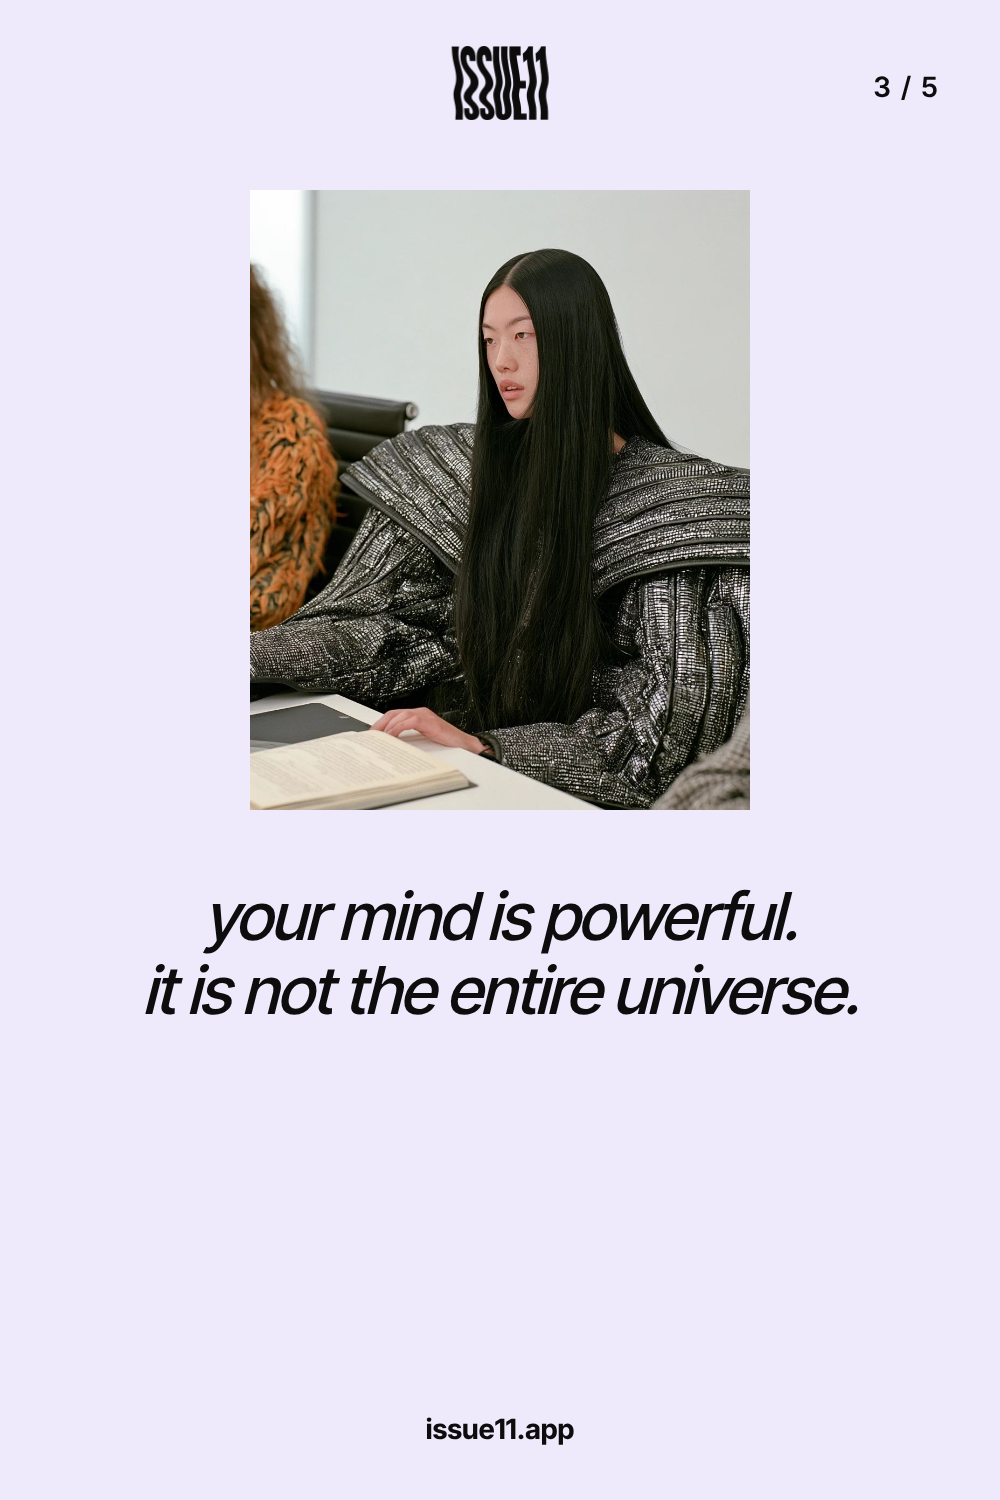
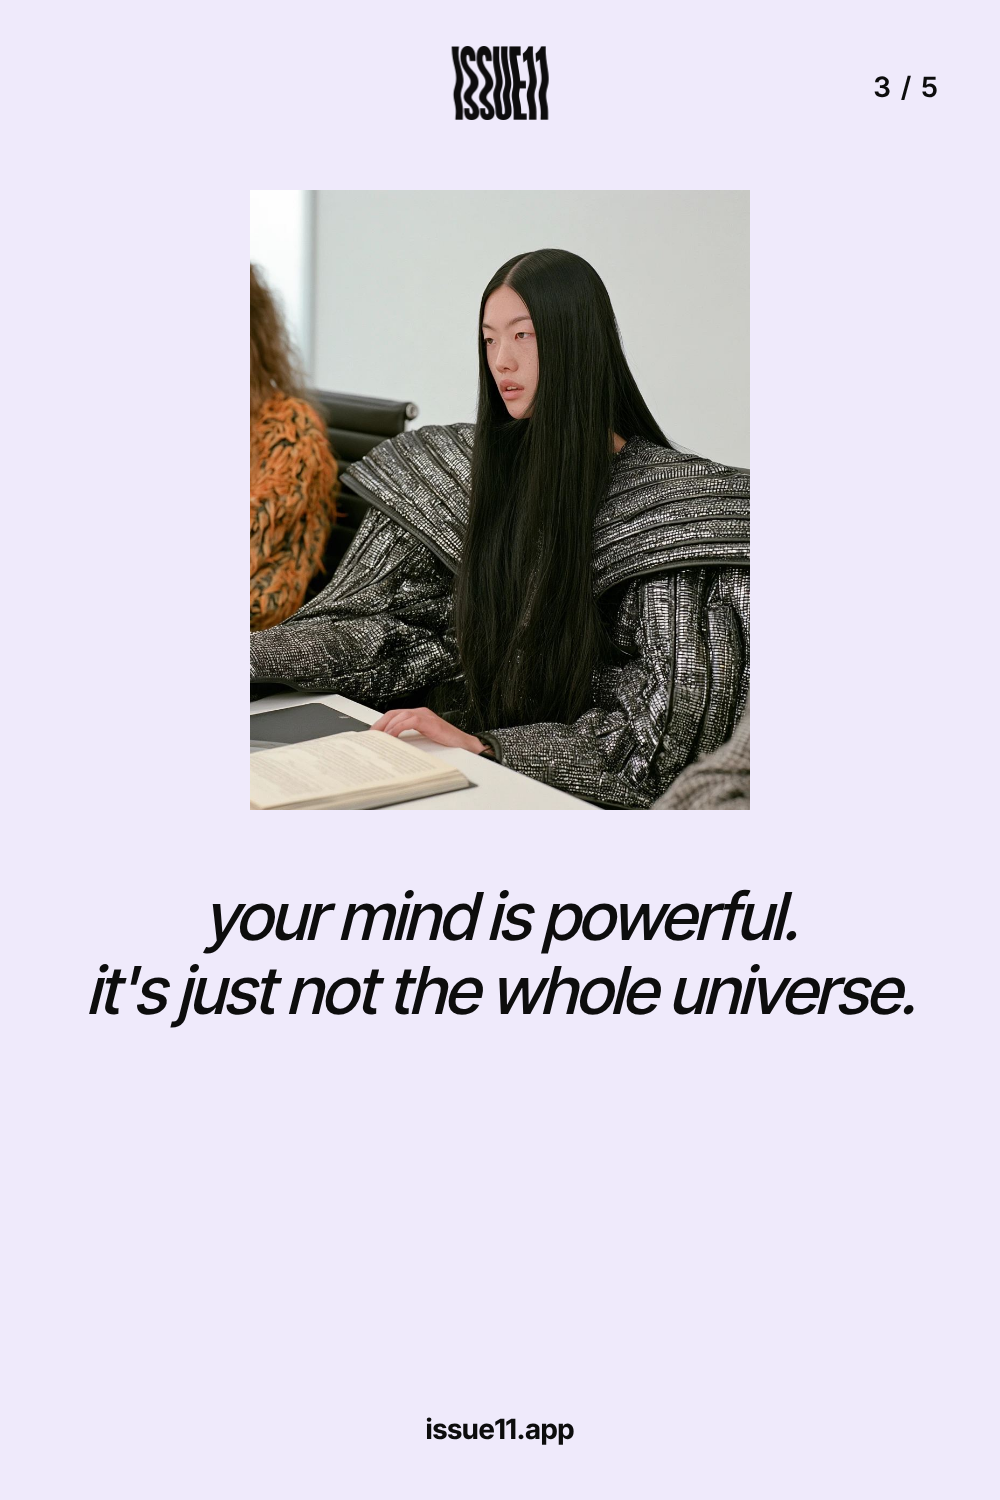
Rule: humanize everything; pillar 4 carousel copy humanized
Claude-Session: https://claude.ai/code/session_01YGtmQppBCBt9nypMHzxSp1

Changed region(s): [[0.093, 0.644, 0.93, 0.7053]]

diff --git a/drafts/pinterest/carousels/pillar4/p4.js b/drafts/pinterest/carousels/pillar4/p4.js
@@ -31,21 +31,21 @@ S.push(shell(2, `<div class="mid" style="top:520px;font-size:76px">they told you
 // 3 · the turn (registry line) + framed photo
 S.push(shell(3, `<div style="position:absolute;inset:0;background:#EFEAFB"></div>
 <img src="${PHOTO}" style="position:absolute;left:250px;top:190px;width:500px;height:620px;object-fit:cover;object-position:50% 20%">
-<div class="mid" style="top:880px;font-size:66px;font-style:italic">your mind is powerful.<br>it is not the entire universe.</div>`));
+<div class="mid" style="top:880px;font-size:66px;font-style:italic">your mind is powerful.<br>it's just not the whole universe.</div>`));
 // 4 · conceptual model: the month you pictured vs the month you had
-S.push(shell(4, `<div class="lab" style="top:230px">conceptual model</div>
+S.push(shell(4, `<div class="lab" style="top:230px">not real data. just real life.</div>
 <svg style="position:absolute;left:100px;top:330px" width="800" height="620" viewBox="0 0 800 620">
 <line x1="40" y1="580" x2="780" y2="580" stroke="#0D0D0D" stroke-width="3"/>
 <line x1="40" y1="580" x2="40" y2="20" stroke="#0D0D0D" stroke-width="3"/>
 <path d="M40 560 L760 60" stroke="#BDBDBD" stroke-width="10" fill="none" stroke-dasharray="22 16" stroke-linecap="round"/>
 <path d="M40 560 C150 430 210 420 280 420 S390 440 440 470 S540 330 600 260 S700 170 760 150" stroke="${PINK}" stroke-width="12" fill="none" stroke-linecap="round"/>
 </svg>
-<div style="position:absolute;left:110px;top:1010px;font-weight:700;font-size:38px;color:#9A9A9A">- - the month you pictured</div>
-<div style="position:absolute;left:110px;top:1070px;font-weight:700;font-size:38px;color:${PINK}">— the month you had</div>
-<div class="mid" style="top:1180px;font-size:44px;font-weight:600">both still go up.</div>`));
+<div style="position:absolute;left:110px;top:1010px;font-weight:700;font-size:38px;color:#9A9A9A">- - what you pictured</div>
+<div style="position:absolute;left:110px;top:1070px;font-weight:700;font-size:38px;color:${PINK}">— what actually happened</div>
+<div class="mid" style="top:1180px;font-size:44px;font-weight:600">still going up though.</div>`));
 // 5 · the decision + next step
-S.push(shell(5, `<div class="big" style="top:250px;font-size:118px">a setback is not a verdict.</div>
-<div style="position:absolute;left:60px;right:60px;top:640px;font-weight:700;font-size:56px;line-height:1.35">keep going.<br>adjust.<br>pause.<br>stop.<br><span style="color:${PINK}">your call.</span></div>
+S.push(shell(5, `<div class="big" style="top:250px;font-size:112px">one slow month doesn't mean it's over.</div>
+<div style="position:absolute;left:60px;right:60px;top:700px;font-weight:700;font-size:56px;line-height:1.35">keep going.<br>change the plan.<br>take a break.<br>or let it go.<br><span style="color:${PINK}">your call.</span></div>
 <div style="position:absolute;left:60px;right:60px;top:1150px;font-weight:600;font-size:38px">save this for month two.</div>`));
 (async () => {
   const b = await chromium.launch(); const p = await b.newPage({viewport: {width: 1000, height: 1500}});

diff --git a/drafts/pinterest/carousels/pillar4/P4-4.html b/drafts/pinterest/carousels/pillar4/P4-4.html
@@ -7,13 +7,13 @@
 .big{position:absolute;left:60px;right:60px;font-weight:900;letter-spacing:-.045em;line-height:.98}
 .mid{position:absolute;left:80px;right:80px;text-align:center;font-weight:500;letter-spacing:-.03em;line-height:1.12}
 .lab{position:absolute;left:0;right:0;text-align:center;font-weight:800;font-size:24px;letter-spacing:.2em;color:#E0217F;text-transform:uppercase}</style></head><body><div class="pin" style="">
-<img class="logo" src="file:///home/user/Autonomousangents/drafts/issue11-gift/rebrand-kit/logo-black.png"><div class="num">4 / 5</div><div class="lab" style="top:230px">conceptual model</div>
+<img class="logo" src="file:///home/user/Autonomousangents/drafts/issue11-gift/rebrand-kit/logo-black.png"><div class="num">4 / 5</div><div class="lab" style="top:230px">not real data. just real life.</div>
 <svg style="position:absolute;left:100px;top:330px" width="800" height="620" viewBox="0 0 800 620">
 <line x1="40" y1="580" x2="780" y2="580" stroke="#0D0D0D" stroke-width="3"/>
 <line x1="40" y1="580" x2="40" y2="20" stroke="#0D0D0D" stroke-width="3"/>
 <path d="M40 560 L760 60" stroke="#BDBDBD" stroke-width="10" fill="none" stroke-dasharray="22 16" stroke-linecap="round"/>
 <path d="M40 560 C150 430 210 420 280 420 S390 440 440 470 S540 330 600 260 S700 170 760 150" stroke="#E0217F" stroke-width="12" fill="none" stroke-linecap="round"/>
 </svg>
-<div style="position:absolute;left:110px;top:1010px;font-weight:700;font-size:38px;color:#9A9A9A">- - the month you pictured</div>
-<div style="position:absolute;left:110px;top:1070px;font-weight:700;font-size:38px;color:#E0217F">— the month you had</div>
-<div class="mid" style="top:1180px;font-size:44px;font-weight:600">both still go up.</div><div class="url">issue11.app</div></div></body></html>
+<div style="position:absolute;left:110px;top:1010px;font-weight:700;font-size:38px;color:#9A9A9A">- - what you pictured</div>
+<div style="position:absolute;left:110px;top:1070px;font-weight:700;font-size:38px;color:#E0217F">— what actually happened</div>
+<div class="mid" style="top:1180px;font-size:44px;font-weight:600">still going up though.</div><div class="url">issue11.app</div></div></body></html>

diff --git a/drafts/pinterest/carousels/pillar4/P4-5.html b/drafts/pinterest/carousels/pillar4/P4-5.html
@@ -7,6 +7,6 @@
 .big{position:absolute;left:60px;right:60px;font-weight:900;letter-spacing:-.045em;line-height:.98}
 .mid{position:absolute;left:80px;right:80px;text-align:center;font-weight:500;letter-spacing:-.03em;line-height:1.12}
 .lab{position:absolute;left:0;right:0;text-align:center;font-weight:800;font-size:24px;letter-spacing:.2em;color:#E0217F;text-transform:uppercase}</style></head><body><div class="pin" style="">
-<img class="logo" src="file:///home/user/Autonomousangents/drafts/issue11-gift/rebrand-kit/logo-black.png"><div class="num">5 / 5</div><div class="big" style="top:250px;font-size:118px">a setback is not a verdict.</div>
-<div style="position:absolute;left:60px;right:60px;top:640px;font-weight:700;font-size:56px;line-height:1.35">keep going.<br>adjust.<br>pause.<br>stop.<br><span style="color:#E0217F">your call.</span></div>
+<img class="logo" src="file:///home/user/Autonomousangents/drafts/issue11-gift/rebrand-kit/logo-black.png"><div class="num">5 / 5</div><div class="big" style="top:250px;font-size:112px">one slow month doesn't mean it's over.</div>
+<div style="position:absolute;left:60px;right:60px;top:700px;font-weight:700;font-size:56px;line-height:1.35">keep going.<br>change the plan.<br>take a break.<br>or let it go.<br><span style="color:#E0217F">your call.</span></div>
 <div style="position:absolute;left:60px;right:60px;top:1150px;font-weight:600;font-size:38px">save this for month two.</div><div class="url">issue11.app</div></div></body></html>

diff --git a/drafts/pinterest/carousels/pillar4/P4-3.html b/drafts/pinterest/carousels/pillar4/P4-3.html
@@ -9,4 +9,4 @@
 .lab{position:absolute;left:0;right:0;text-align:center;font-weight:800;font-size:24px;letter-spacing:.2em;color:#E0217F;text-transform:uppercase}</style></head><body><div class="pin" style="">
 <img class="logo" src="file:///home/user/Autonomousangents/drafts/issue11-gift/rebrand-kit/logo-black.png"><div class="num">3 / 5</div><div style="position:absolute;inset:0;background:#EFEAFB"></div>
 <img src="file:///home/user/Autonomousangents/drafts/issue11-gift/rebrand-kit/img/e27.jpg" style="position:absolute;left:250px;top:190px;width:500px;height:620px;object-fit:cover;object-position:50% 20%">
-<div class="mid" style="top:880px;font-size:66px;font-style:italic">your mind is powerful.<br>it is not the entire universe.</div><div class="url">issue11.app</div></div></body></html>
+<div class="mid" style="top:880px;font-size:66px;font-style:italic">your mind is powerful.<br>it's just not the whole universe.</div><div class="url">issue11.app</div></div></body></html>

diff --git a/.pipeline/lessons.md b/.pipeline/lessons.md
@@ -806,3 +806,4 @@ Format: `- YYYY-MM-DD · <agent> · <what> · why · cost`
 - 2026-11-26 · RULE (Megan: "Also it needs to match the lexicon of our audience"): pin copy uses her words from design/editorial/LEXICON.md (Gen Z vs millennial-30s split, pains, skeptic voice) and none of its never-say list. Summary in the issue11-pinterest skill.
 - 2026-11-26 · DECISION (Megan: "Perfect so now we are creating content from there"): design/editorial/POINT-OF-VIEW.md approved; the 7 beliefs are the content pillars (start 1 + 4), ACT → EVOLVE in content, belief 2 line OK. In the issue11-pinterest skill.
 - 2026-11-26 · DECISION (Megan: "We are allowed to copy viral content and change a few things (few words, or aesthetic of the content or adapt it ours, etc...)"): OK to take a viral post's idea, structure, topic and hook pattern and remake it as ours. Guardrail (Pinterest takedown risk): never reuse another creator's photos/graphics, and don't republish their full text with a few words swapped; rewrite in our words + lexicon, our photos, our POV.
+- 2026-11-26 · RULE (Megan, word for word: "Also HUMANIZE EVERYRHING"): every line must sound like a real girl talking, not a brand, a coach or AI. Contractions, casual words, her lexicon; no lofty or clinical lines ("verdict", "conceptual model", "embark"). Read it out loud: would she say it to a friend?

diff --git a/.claude/skills/issue11-pinterest/SKILL.md b/.claude/skills/issue11-pinterest/SKILL.md
@@ -71,6 +71,7 @@ Megan, Nov 26: "Also it needs to match the lexicon of our audience". Full source
 - Never "becoming her" (Megan: "becoming her should not be a thing"). Never copy Megan's personal details.
 - Audience: Gen Z **and** millennial women. Captions and on-pin text are lowercase (Megan: "No capital letters").
 - Copy: **concise, no fluff, no AI jargon** (Megan: "keep it concise no extra fluff words etc and ai jargon"). Cut every word that isn't doing work; never "elevate", "unlock", "journey", "game-changer", "dive in".
+- **HUMANIZE EVERYTHING** (Megan, in caps): every line sounds like a real girl talking to a friend, not a brand, coach or AI. Contractions, casual words, her lexicon; no lofty or clinical words ("verdict", "conceptual model", "embark", "elevate"). Test: read it out loud.
 - Keep it simple: **one idea per slide, readable in a glance** (Megan: "People have short attention spans so we have to make things simple").
 - Carousels: **aim for 5 slides; 6 only if it truly needs it**, short text on each (Megan: "Preferably 5 but if it needs 6 then it's fine too it's not a hard rule just a hard preference").
 - Never place text over a face. Never cut off a face. Run Visual QA (phone 390px + 236px feed) before showing anything.
